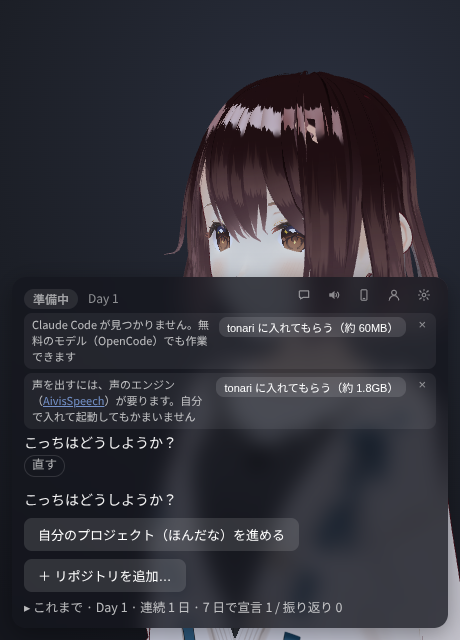
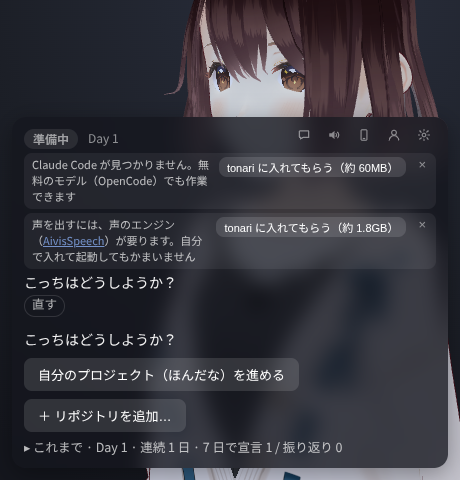
スクリーンショットをパネルの部分に切り詰めて文字を大きくし、スマホの 2 枚の高さを揃える

diff --git a/README.md b/README.md
@@ -88,7 +88,7 @@ Anthropic の API キーで Claude を使うこともできます（「もっと
 
 パネル右上のスマホの絵のボタン（「スマホで使う」）を押すと、ペルソナとパネルはスマホ（Android の Chrome など）に移り、PC の窓には QR コードが出ます。同じ Wi-Fi につないだスマホで「同じ Wi-Fi から」の QR を読んでください。その日の作業はそのまま続き、操作はすべてスマホからできます。PC の窓の「PC に戻す」で元の窓に戻ります。
 
-<img src="images/phone-qr.png" alt="スマホに切り替えたあとの PC の窓。「スマホと繋がっています」と「PC に戻す」のボタン、宛先ごとの QR コード" width="300"> <img src="images/phone.png" alt="スマホに移ったペルソナとパネル。作業中の残り時間と、ペルソナの作業の様子が出ている" width="160">
+<img src="images/phone-qr.png" alt="スマホに切り替えたあとの PC の窓。「スマホと繋がっています」と「PC に戻す」のボタン、宛先ごとの QR コード" width="460"> <img src="images/phone.png" alt="スマホに移ったペルソナとパネル。作業中の残り時間と、ペルソナの作業の様子が出ている" width="160">
 
 [Tailscale](https://tailscale.com/) で PC とスマホを繋いでいれば、「Tailscale」の QR で、同じ Wi-Fi でなくても使えます。ただし PC の前にいるものとして動くので、PC を離れている間は「詰まってる？」の声かけが出たり、休憩が終わっても席を離れているとみなして待つことがあります（スマホの「再開」で続きます）。
 
